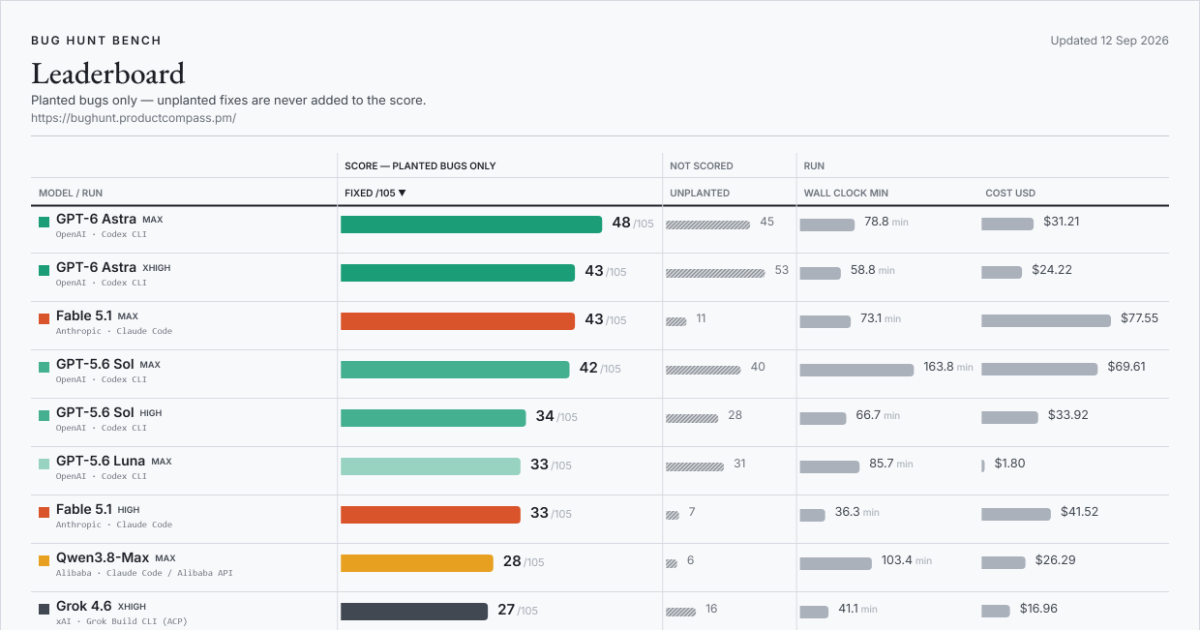
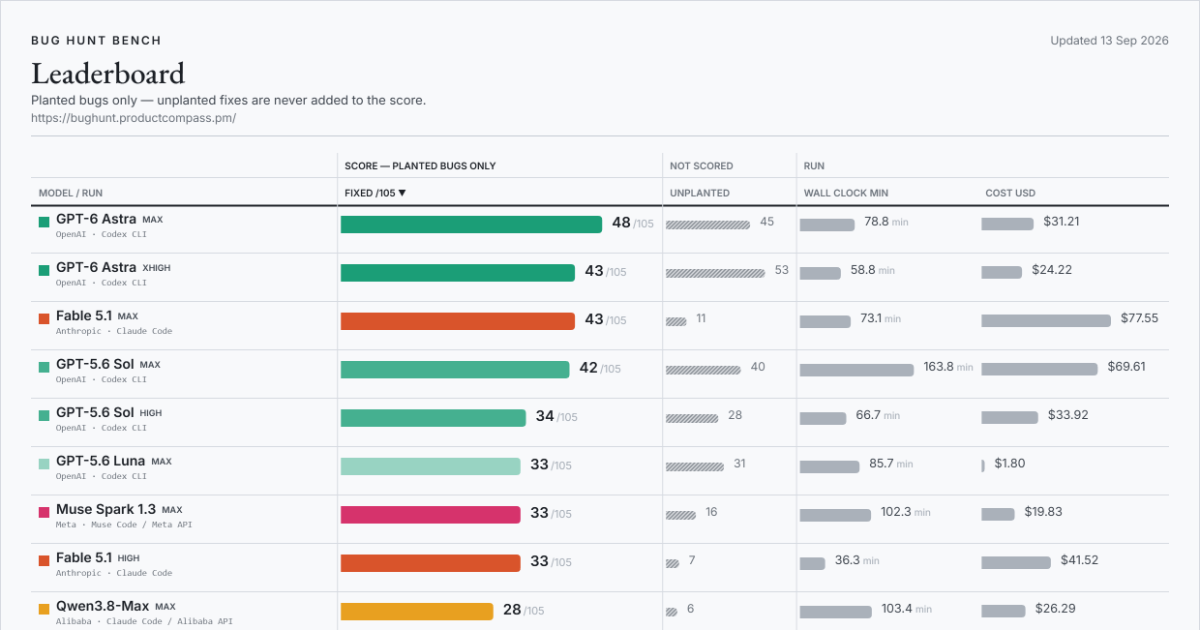
bug hunt bench: Muse Spark 1.3 (max effort, Muse Code, Meta API) (33/105)

diff --git a/index.html b/index.html
@@ -22,14 +22,14 @@
 <meta property="og:title" content="Bug Hunt Bench — frontier coding models against real planted bugs">
 <meta property="og:description" content="A blind-graded benchmark of frontier coding models on real bugs planted in two production codebases. The score counts planted bugs only; extra fixes are tracked separately and never added.">
 <meta property="og:url" content="https://bughunt.productcompass.pm/">
-<meta property="og:image" content="https://bughunt.productcompass.pm/og-image.png?v=2026-09-12-0e926b2d">
+<meta property="og:image" content="https://bughunt.productcompass.pm/og-image.png?v=2026-09-13-67f7a3ab">
 <meta property="og:image:width" content="1200">
 <meta property="og:image:height" content="630">
 <meta property="og:image:alt" content="Bug Hunt Bench leaderboard">
 <meta name="twitter:card" content="summary_large_image">
 <meta name="twitter:title" content="Bug Hunt Bench — frontier coding models against real planted bugs">
 <meta name="twitter:description" content="A blind-graded benchmark of frontier coding models on real bugs planted in two production codebases. The score counts planted bugs only.">
-<meta name="twitter:image" content="https://bughunt.productcompass.pm/og-image.png?v=2026-09-12-0e926b2d">
+<meta name="twitter:image" content="https://bughunt.productcompass.pm/og-image.png?v=2026-09-13-67f7a3ab">
 <meta name="twitter:creator" content="@PawelHuryn">
 
 <link rel="icon" href="/assets/favicon.svg" type="image/svg+xml">

diff --git a/method.html b/method.html
@@ -20,14 +20,14 @@
 <meta property="og:title" content="Method, caveats and definitions — Bug Hunt Bench">
 <meta property="og:description" content="How Bug Hunt Bench is run and graded, what the board cannot tell you, and what every column on it means.">
 <meta property="og:url" content="https://bughunt.productcompass.pm/method">
-<meta property="og:image" content="https://bughunt.productcompass.pm/og-image.png?v=2026-09-12-0e926b2d">
+<meta property="og:image" content="https://bughunt.productcompass.pm/og-image.png?v=2026-09-13-67f7a3ab">
 <meta property="og:image:width" content="1200">
 <meta property="og:image:height" content="630">
 <meta property="og:image:alt" content="Bug Hunt Bench leaderboard">
 <meta name="twitter:card" content="summary_large_image">
 <meta name="twitter:title" content="Method, caveats and definitions — Bug Hunt Bench">
 <meta name="twitter:description" content="How Bug Hunt Bench is run and graded, what the board cannot tell you, and what every column on it means.">
-<meta name="twitter:image" content="https://bughunt.productcompass.pm/og-image.png?v=2026-09-12-0e926b2d">
+<meta name="twitter:image" content="https://bughunt.productcompass.pm/og-image.png?v=2026-09-13-67f7a3ab">
 <meta name="twitter:creator" content="@PawelHuryn">
 
 <link rel="icon" href="/assets/favicon.svg" type="image/svg+xml">

diff --git a/README.md b/README.md
@@ -7,13 +7,13 @@
 If the numbers save you a benchmark run of your own, **star this repo** — that is what keeps the bench findable, and new models are added as they ship.
 
 <!-- leaderboard:start -->
-![Bug Hunt Bench leaderboard, the featured runs, updated Sep 12, 2026](assets/leaderboard.png?v=2026-09-12)
+![Bug Hunt Bench leaderboard, the featured runs, updated Sep 13, 2026](assets/leaderboard.png?v=2026-09-13)
 
-**Updated Sep 12, 2026 · 71 scored runs · 28 models · 39 of 105 bugs have never been fixed by any model.**
+**Updated Sep 13, 2026 · 72 scored runs · 28 models · 38 of 105 bugs have never been fixed by any model.**
 
 **Current leader:** GPT-6 Astra at `max` effort — **48 / 105** (24/45 on repo 1, 24/60 on repo 2).
 
-**Best run per lab:** OpenAI: GPT-6 Astra (`max`) 48 · Anthropic: Fable 5.1 (`max`) 43 · Alibaba: Qwen3.8-Max (`max`) 28 · xAI: Grok 4.6 (`xhigh`) 27 · DeepSeek: DeepSeek V4.1 Flash (`max`) 24 · Google: Gemini 3.7 Flash (`high`) 22 · Moonshot AI: Kimi K3 (`default`) 21 · Z.ai: GLM-5.3 Flash (`max`) 19 · Tencent: Hy4 Preview (`default`) 18 · Meta: Muse Spark 1.3 (`default`) 18 · OpenAI (open weights): gpt-oss-20b (`default`) 0
+**Best run per lab:** OpenAI: GPT-6 Astra (`max`) 48 · Anthropic: Fable 5.1 (`max`) 43 · Meta: Muse Spark 1.3 (`max`) 33 · Alibaba: Qwen3.8-Max (`max`) 28 · xAI: Grok 4.6 (`xhigh`) 27 · DeepSeek: DeepSeek V4.1 Flash (`max`) 24 · Google: Gemini 3.7 Flash (`high`) 22 · Moonshot AI: Kimi K3 (`default`) 21 · Z.ai: GLM-5.3 Flash (`max`) 19 · Tencent: Hy4 Preview (`default`) 18 · OpenAI (open weights): gpt-oss-20b (`default`) 0
 
 | # | Model | Harness | Effort | Fixed /105 | Repo 1 /45 | Repo 2 /60 | Extras | Wall | Cost | Date |
 |--:|---|---|---|--:|--:|--:|--:|--:|--:|---|
@@ -26,57 +26,58 @@ If the numbers save you a benchmark run of your own, **star this repo** — that
 | 7 | GPT-6 Astra | Codex CLI | medium | **34** | 19 | 15 | 33 | 28 min | $15.78 | 2026-09-05 |
 | 8 | GPT-5.6 Sol | Codex CLI | high | **34** | 13 | 21 | 28 | 67 min | $33.92 | 2026-07-31 |
 | 9 | GPT-5.6 Luna | Codex CLI | max | **33** | 17 | 16 | 31 | 86 min | $1.80 | 2026-07-31 |
-| 10 | Fable 5.1 | Claude Code | high | **33** | 15 | 18 | 7 | 36 min | $41.52 | 2026-09-01 |
-| 11 | GPT-5.6 Terra | Codex CLI | max | **32** | 16 | 16 | 45 | 160 min | $27.98 | 2026-08-27 |
-| 12 | GPT-5.6 Sol | Codex CLI | medium | **29** | 13 | 16 | 24 | 48 min | $15.77 | 2026-09-06 |
-| 13 | Fable 5.1 | Claude Code | low | **29** | 13 | 16 | 6 | 33 min | $27.27 | 2026-09-02 |
-| 14 | Fable 5.1 | Claude Code | xhigh | **29** | 13 | 16 | 4 | 60 min | $40.42 | 2026-09-10 |
-| 15 | Fable 5 | Claude Code | max | **29** | 12 | 17 | 5 | 57 min | $104.49 | 2026-08-01 |
-| 16 | Qwen3.8-Max | Claude Code / Alibaba API | max | **28** | 13 | 15 | 6 | 103 min | $26.29 | 2026-09-11 |
-| 17 | GPT-6 Astra | Codex CLI | low | **27** | 18 | 9 | 25 | 32 min | $11.69 | 2026-09-05 |
-| 18 | Grok 4.6 | Grok Build CLI (ACP) | xhigh | **27** | 8 | 19 | 16 | 41 min | $16.96 floor | 2026-08-28 |
-| 19 | Opus 5 | Claude Code | max | **27** | 13 | 14 | 2 | 60 min | $51.33 | 2026-08-01 |
-| 20 | Qwen3.8-Flash | Claude Code / Alibaba API | max | **26** | 13 | 13 | 7 | 97 min | $1.81 | 2026-09-11 |
-| 21 | Opus 5 | Claude Code | xhigh | **26** | 14 | 12 | 3 | 50 min | $59.59 | 2026-08-28 |
-| 22 | DeepSeek V4.1 Flash | Claude Code / DeepSeek API | max | **24** | 14 | 10 | 7 | 43 min | $1.08 bill | 2026-09-10 |
-| 23 | Opus 5 | Claude Code | medium | **24** | 11 | 13 | 4 | 30 min | $34.77 | 2026-08-27 |
-| 24 | Fable 5 | Claude Code | high | **24** | 9 | 15 | 3 | 31 min | $68.07 | 2026-07-26 |
-| 25 | Qwen3.8-Flash | Claude Code / Alibaba API | low | **23** | 11 | 12 | 7 | 98 min | $1.37 | 2026-09-11 |
-| 26 | GPT-5.6 Luna | Codex CLI | xhigh | **23** | 10 | 13 | 53 | 136 min | $2.50 | 2026-08-28 |
-| 27 | Grok 4.6 | Grok Build CLI (ACP) | high | **23** | 7 | 16 | 16 | 33 min | $15.73 floor | 2026-08-28 |
-| 28 | Grok 4.6 | Grok Build CLI (ACP) | medium | **22** | 9 | 13 | 11 | 26 min | $5.80 floor | 2026-08-28 |
-| 29 | Gemini 3.7 Flash | Gemini CLI (retired) + model-pinning gateway | high | **22** | 8 | 14 | 4 | 97 min | $8.43 | 2026-08-24 |
-| 30 | Fable 5.1 | Claude Code | medium | **21** | 8 | 13 | 3 | 23 min | $17.46 | 2026-09-10 |
-| 31 | Kimi K3 | Claude Code / OpenRouter | default | **21** | 4 | 17 | 6 | 108 min | $25.27 | 2026-07-26 |
-| 32 | Opus 5 | Claude Code | high | **21** | 11 | 10 | 6 | 37 min | $38.77 | 2026-07-26 |
-| 33 | GPT-5.6 Terra | Codex CLI | xhigh | **20** | 9 | 11 | 29 | 57 min | $8.98 | 2026-08-28 |
-| 34 | Gemini 3.8 Flash | Antigravity CLI | high | **20** | 7 | 13 | 6 | 30 min | $9.78 | 2026-09-02 |
-| 35 | DeepSeek V4.1 Flash | Claude Code / DeepSeek API | high | **19** | 9 | 10 | 4 | 26 min | $0.31 bill | 2026-09-10 |
-| 36 | GLM-5.3 Flash | Claude Code / Z.ai API | max | **19** | 10 | 9 | 4 | 58 min | $0.94 | 2026-09-12 |
-| 37 | GLM-5.3 | Claude Code / Z.ai API | max | **19** | 9 | 10 | 2 | 40 min | $15.93 | 2026-09-10 |
-| 38 | Hy4 Preview | Claude Code / OpenRouter | default | **18** | 9 | 9 | 2 | 68 min | $3.13 bill | 2026-08-28 |
-| 39 | GPT-5.6 Terra | Codex CLI | high | **18** | 7 | 11 | 17 | 28 min | $5.89 | 2026-08-27 |
-| 40 | Muse Spark 1.3 | Muse Code / OpenRouter | default | **18** | 6 | 12 | 17 | 53 min | $9.53 bill | 2026-09-12 |
-| 41 | Grok 4.5 | Grok Build CLI (ACP) | high | **17** | 5 | 12 | 10 | 28 min | $8.50 floor | 2026-08-06 |
-| 42 | Muse Spark 1.2 | Claude Code / Meta API | xhigh | **17** | 6 | 11 | 12 | 36 min | $13.99 | 2026-08-06 |
-| 43 | Ox Alpha (stealth) | Claude Code / OpenRouter | default | **16** | 8 | 8 | 3 | 59 min | free | 2026-08-25 |
-| 44 | DeepSeek V4-Pro | Claude Code / DeepSeek API | max | **16** | 8 | 8 | 4 | 37 min | $1.89 bill | 2026-09-10 |
-| 45 | Gemini 3.7 Flash | Antigravity CLI | high | **16** | 4 | 12 | 2 | 23 min | $6.36 | 2026-08-28 |
-| 46 | GPT-5.6 Terra | Codex CLI | medium | **15** | 4 | 11 | 6 | 20 min | $3.87 | 2026-08-27 |
-| 47 | Grok 4.6 | Grok Build CLI (ACP) | low | **15** | 6 | 9 | 9 | 18 min | $4.14 floor | 2026-08-27 |
-| 48 | Qwen3.8-27B | Claude Code / Alibaba API | xhigh | **15** | 6 | 9 | 2 | 47 min | $6.09 | 2026-09-12 |
-| 49 | Opus 4.8 | Claude Code | max | **15** | 6 | 9 | 3 | 109 min | $52.07 | 2026-09-10 |
-| 50 | DeepSeek V4-Flash | Claude Code / OpenRouter | default | **14** | 6 | 8 | 0 | 48 min | $1.52 bill | 2026-08-01 |
-| 51 | GPT-5.6 Luna | Codex CLI | high | **13** | 5 | 8 | 22 | 64 min | $0.57 | 2026-07-31 |
-| 52 | GLM-5.3 Flash | Claude Code / OpenRouter | default | **13** | 6 | 7 | 4 | 57 min | $0.79 bill | 2026-08-27 |
-| 53 | DeepSeek V4-Pro | Claude Code / DeepSeek API | high | **13** | 4 | 9 | 1 | 27 min | $1.08 bill | 2026-09-10 |
-| 54 | GPT-5.6 Luna | Codex CLI | medium | **9** | 5 | 4 | 5 | 15 min | $0.33 | 2026-08-27 |
-| 55 | Sonnet 5 | Claude Code | high | **9** | 1 | 8 | 4 | 33 min | $15.12 | 2026-07-26 |
-| 56 | Opus 4.8 | Claude Code | high | **9** | 2 | 7 | 1 | 35 min | $19.35 | 2026-07-26 |
-| 57 | Sonnet 5 | Claude Code | max | **9** | 3 | 6 | 3 | 61 min | $24.04 | 2026-09-10 |
-| 58 | GPT-5.6 Luna | Codex CLI | low | **4** | 0 | 4 | 1 | 6 min | $0.10 | 2026-08-27 |
-| 59 | gpt-oss-20b | Claude Code / OpenRouter | default | **0** | 0 | 0 | 0 | 4 min | $0.11 bill | 2026-09-12 |
-| 60 | gpt-oss-120b | Claude Code / OpenRouter | default | **0** | 0 | 0 | 1 | 4 min | $0.13 bill | 2026-09-12 |
+| 10 | Muse Spark 1.3 | Muse Code / Meta API | max | **33** | 14 | 19 | 16 | 102 min | $19.83 | 2026-09-13 |
+| 11 | Fable 5.1 | Claude Code | high | **33** | 15 | 18 | 7 | 36 min | $41.52 | 2026-09-01 |
+| 12 | GPT-5.6 Terra | Codex CLI | max | **32** | 16 | 16 | 45 | 160 min | $27.98 | 2026-08-27 |
+| 13 | GPT-5.6 Sol | Codex CLI | medium | **29** | 13 | 16 | 24 | 48 min | $15.77 | 2026-09-06 |
+| 14 | Fable 5.1 | Claude Code | low | **29** | 13 | 16 | 6 | 33 min | $27.27 | 2026-09-02 |
+| 15 | Fable 5.1 | Claude Code | xhigh | **29** | 13 | 16 | 4 | 60 min | $40.42 | 2026-09-10 |
+| 16 | Fable 5 | Claude Code | max | **29** | 12 | 17 | 5 | 57 min | $104.49 | 2026-08-01 |
+| 17 | Qwen3.8-Max | Claude Code / Alibaba API | max | **28** | 13 | 15 | 6 | 103 min | $26.29 | 2026-09-11 |
+| 18 | GPT-6 Astra | Codex CLI | low | **27** | 18 | 9 | 25 | 32 min | $11.69 | 2026-09-05 |
+| 19 | Grok 4.6 | Grok Build CLI (ACP) | xhigh | **27** | 8 | 19 | 16 | 41 min | $16.96 floor | 2026-08-28 |
+| 20 | Opus 5 | Claude Code | max | **27** | 13 | 14 | 2 | 60 min | $51.33 | 2026-08-01 |
+| 21 | Qwen3.8-Flash | Claude Code / Alibaba API | max | **26** | 13 | 13 | 7 | 97 min | $1.81 | 2026-09-11 |
+| 22 | Opus 5 | Claude Code | xhigh | **26** | 14 | 12 | 3 | 50 min | $59.59 | 2026-08-28 |
+| 23 | DeepSeek V4.1 Flash | Claude Code / DeepSeek API | max | **24** | 14 | 10 | 7 | 43 min | $1.08 bill | 2026-09-10 |
+| 24 | Opus 5 | Claude Code | medium | **24** | 11 | 13 | 4 | 30 min | $34.77 | 2026-08-27 |
+| 25 | Fable 5 | Claude Code | high | **24** | 9 | 15 | 3 | 31 min | $68.07 | 2026-07-26 |
+| 26 | Qwen3.8-Flash | Claude Code / Alibaba API | low | **23** | 11 | 12 | 7 | 98 min | $1.37 | 2026-09-11 |
+| 27 | GPT-5.6 Luna | Codex CLI | xhigh | **23** | 10 | 13 | 53 | 136 min | $2.50 | 2026-08-28 |
+| 28 | Grok 4.6 | Grok Build CLI (ACP) | high | **23** | 7 | 16 | 16 | 33 min | $15.73 floor | 2026-08-28 |
+| 29 | Grok 4.6 | Grok Build CLI (ACP) | medium | **22** | 9 | 13 | 11 | 26 min | $5.80 floor | 2026-08-28 |
+| 30 | Gemini 3.7 Flash | Gemini CLI (retired) + model-pinning gateway | high | **22** | 8 | 14 | 4 | 97 min | $8.43 | 2026-08-24 |
+| 31 | Fable 5.1 | Claude Code | medium | **21** | 8 | 13 | 3 | 23 min | $17.46 | 2026-09-10 |
+| 32 | Kimi K3 | Claude Code / OpenRouter | default | **21** | 4 | 17 | 6 | 108 min | $25.27 | 2026-07-26 |
+| 33 | Opus 5 | Claude Code | high | **21** | 11 | 10 | 6 | 37 min | $38.77 | 2026-07-26 |
+| 34 | GPT-5.6 Terra | Codex CLI | xhigh | **20** | 9 | 11 | 29 | 57 min | $8.98 | 2026-08-28 |
+| 35 | Gemini 3.8 Flash | Antigravity CLI | high | **20** | 7 | 13 | 6 | 30 min | $9.78 | 2026-09-02 |
+| 36 | DeepSeek V4.1 Flash | Claude Code / DeepSeek API | high | **19** | 9 | 10 | 4 | 26 min | $0.31 bill | 2026-09-10 |
+| 37 | GLM-5.3 Flash | Claude Code / Z.ai API | max | **19** | 10 | 9 | 4 | 58 min | $0.94 | 2026-09-12 |
+| 38 | GLM-5.3 | Claude Code / Z.ai API | max | **19** | 9 | 10 | 2 | 40 min | $15.93 | 2026-09-10 |
+| 39 | Hy4 Preview | Claude Code / OpenRouter | default | **18** | 9 | 9 | 2 | 68 min | $3.13 bill | 2026-08-28 |
+| 40 | GPT-5.6 Terra | Codex CLI | high | **18** | 7 | 11 | 17 | 28 min | $5.89 | 2026-08-27 |
+| 41 | Muse Spark 1.3 | Muse Code / OpenRouter | default | **18** | 6 | 12 | 17 | 53 min | $9.53 bill | 2026-09-12 |
+| 42 | Grok 4.5 | Grok Build CLI (ACP) | high | **17** | 5 | 12 | 10 | 28 min | $8.50 floor | 2026-08-06 |
+| 43 | Muse Spark 1.2 | Claude Code / Meta API | xhigh | **17** | 6 | 11 | 12 | 36 min | $13.99 | 2026-08-06 |
+| 44 | Ox Alpha (stealth) | Claude Code / OpenRouter | default | **16** | 8 | 8 | 3 | 59 min | free | 2026-08-25 |
+| 45 | DeepSeek V4-Pro | Claude Code / DeepSeek API | max | **16** | 8 | 8 | 4 | 37 min | $1.89 bill | 2026-09-10 |
+| 46 | Gemini 3.7 Flash | Antigravity CLI | high | **16** | 4 | 12 | 2 | 23 min | $6.36 | 2026-08-28 |
+| 47 | GPT-5.6 Terra | Codex CLI | medium | **15** | 4 | 11 | 6 | 20 min | $3.87 | 2026-08-27 |
+| 48 | Grok 4.6 | Grok Build CLI (ACP) | low | **15** | 6 | 9 | 9 | 18 min | $4.14 floor | 2026-08-27 |
+| 49 | Qwen3.8-27B | Claude Code / Alibaba API | xhigh | **15** | 6 | 9 | 2 | 47 min | $6.09 | 2026-09-12 |
+| 50 | Opus 4.8 | Claude Code | max | **15** | 6 | 9 | 3 | 109 min | $52.07 | 2026-09-10 |
+| 51 | DeepSeek V4-Flash | Claude Code / OpenRouter | default | **14** | 6 | 8 | 0 | 48 min | $1.52 bill | 2026-08-01 |
+| 52 | GPT-5.6 Luna | Codex CLI | high | **13** | 5 | 8 | 22 | 64 min | $0.57 | 2026-07-31 |
+| 53 | GLM-5.3 Flash | Claude Code / OpenRouter | default | **13** | 6 | 7 | 4 | 57 min | $0.79 bill | 2026-08-27 |
+| 54 | DeepSeek V4-Pro | Claude Code / DeepSeek API | high | **13** | 4 | 9 | 1 | 27 min | $1.08 bill | 2026-09-10 |
+| 55 | GPT-5.6 Luna | Codex CLI | medium | **9** | 5 | 4 | 5 | 15 min | $0.33 | 2026-08-27 |
+| 56 | Sonnet 5 | Claude Code | high | **9** | 1 | 8 | 4 | 33 min | $15.12 | 2026-07-26 |
+| 57 | Opus 4.8 | Claude Code | high | **9** | 2 | 7 | 1 | 35 min | $19.35 | 2026-07-26 |
+| 58 | Sonnet 5 | Claude Code | max | **9** | 3 | 6 | 3 | 61 min | $24.04 | 2026-09-10 |
+| 59 | GPT-5.6 Luna | Codex CLI | low | **4** | 0 | 4 | 1 | 6 min | $0.10 | 2026-08-27 |
+| 60 | gpt-oss-20b | Claude Code / OpenRouter | default | **0** | 0 | 0 | 0 | 4 min | $0.11 bill | 2026-09-12 |
+| 61 | gpt-oss-120b | Claude Code / OpenRouter | default | **0** | 0 | 0 | 1 | 4 min | $0.13 bill | 2026-09-12 |
 
 Extras are real, unplanted defects a model fixed on the way; they are counted and never added to the score. Costs are token estimates at published list rates unless tagged **bill** (an actual invoice or credits delta) or **floor** (a reconstructed lower bound). `default` effort means the serving path had no working effort dial; *ran lower* marks a run whose CLI quietly replaced the requested tier. Wall clock is repo 1 plus repo 2 agent time, dependency install excluded.
 11 superseded re-runs stay in the CSVs and on the [live board](https://bughunt.productcompass.pm/?preset=all) but are left off this table.

diff --git a/results/waves.md b/results/waves.md
@@ -1703,3 +1703,55 @@ does not exist here, so a medium row is not available to be run — and `max` is
 documented default, which means a `default` run and a `max` run on this path are the same run. The
 row asserts the tier rather than relying on that.
 
+
+### Meta's own agent, on Meta's own endpoint, at the top of the dial
+
+**33 of 105, $19.83, 102 minutes, 16 genuine extras, zero claimed-only on either repo.** Muse Spark
+1.3 in Muse Code 1.1.1, straight onto `api.meta.ai` at an asserted `max` — no aggregator anywhere in
+the path. It is **the best Meta result on this board by fifteen points**, and it ties GPT-5.6 Luna
+at max and Fable 5.1 for **11th of 72 rows**.
+
+**The harness result is the one worth stopping on.** Of 33 rows here driven by a vendor's own agent
+rather than by Claude Code, exactly two kinds have cleared 30: Codex CLI, and this.
+
+| harness | best row | score |
+|---|---|---:|
+| Codex CLI | GPT-6 Astra (max) | 48/105 |
+| **Muse Code** | **Muse Spark 1.3 (max, Meta API)** | **33/105** |
+| Grok Build CLI (ACP) | Grok 4.6 (xhigh) | 27/105 |
+| Gemini CLI | Gemini 3.7 Flash (high) | 22/105 |
+| Antigravity CLI | Gemini 3.7 Flash (high) | 18/105 |
+
+**And now the part the number invites and the evidence will not support.** The same model in the
+same harness scored **18/105 through OpenRouter** a day earlier. This row is 33. Nearly double —
+and **two things changed at once**:
+
+| | route | effort |
+|---|---|---|
+| Muse Spark 1.3 — 18/105 | OpenRouter | dropped in transit (`inert_default`) |
+| Muse Spark 1.3 — 33/105 | Meta first-party | `max`, validated and echoed back |
+
+The pair brackets a whole stack change and isolates neither half. This board holds a control
+pointing each way. **GLM-5.3 made the same aggregator-to-first-party-at-max move and scored 19/105
+on both sides** — moved by zero. **Qwen3.8-Max gained nine points on the same kind of move**, and
+there the mechanism was visible in the token columns: uncached input fell from 12.94% of prompt
+tokens to 0.0019%, so the model stopped rebuilding its context. The run that would settle this one
+is a single leg on this endpoint at the measured default of `high`. It does not exist yet, and until
+it does, **read 33 as where this stack lands, not as what `max` bought.**
+
+**It killed a survivor.** One planted bug on repo 2 had gone unfixed by every one of the 84 distinct
+arms that came before it; this run fixed it, and the survivor count drops **39 → 38 of 105**. First
+blood on that one after fourteen months of attempts.
+
+**Zero claimed-only, on all three Meta rows now.** Sixteen genuine unplanted defects found across
+the two repos, 14 of 45 on repo 1 and 19 of 60 plus 3 partials on repo 2, and not one reported fix
+that had not actually been made. That honesty profile is the most consistent thing about Meta's rows
+here, and it survived the model getting twice as effective.
+
+**One caveat that belongs next to the score rather than under it.** `max` is asserted, validated in
+two layers and echoed back applied — but it describes **the main loop**, not the run. Muse Code's
+reminder-observer side agent runs at a fixed `low`/`high` the flag does not reach, and on a
+three-step probe at `max`, 4 of 10 calls carried `max`. The harness section above has the table. No
+other row on this board has needed that distinction, because no other harness here runs a second
+agent.
+
